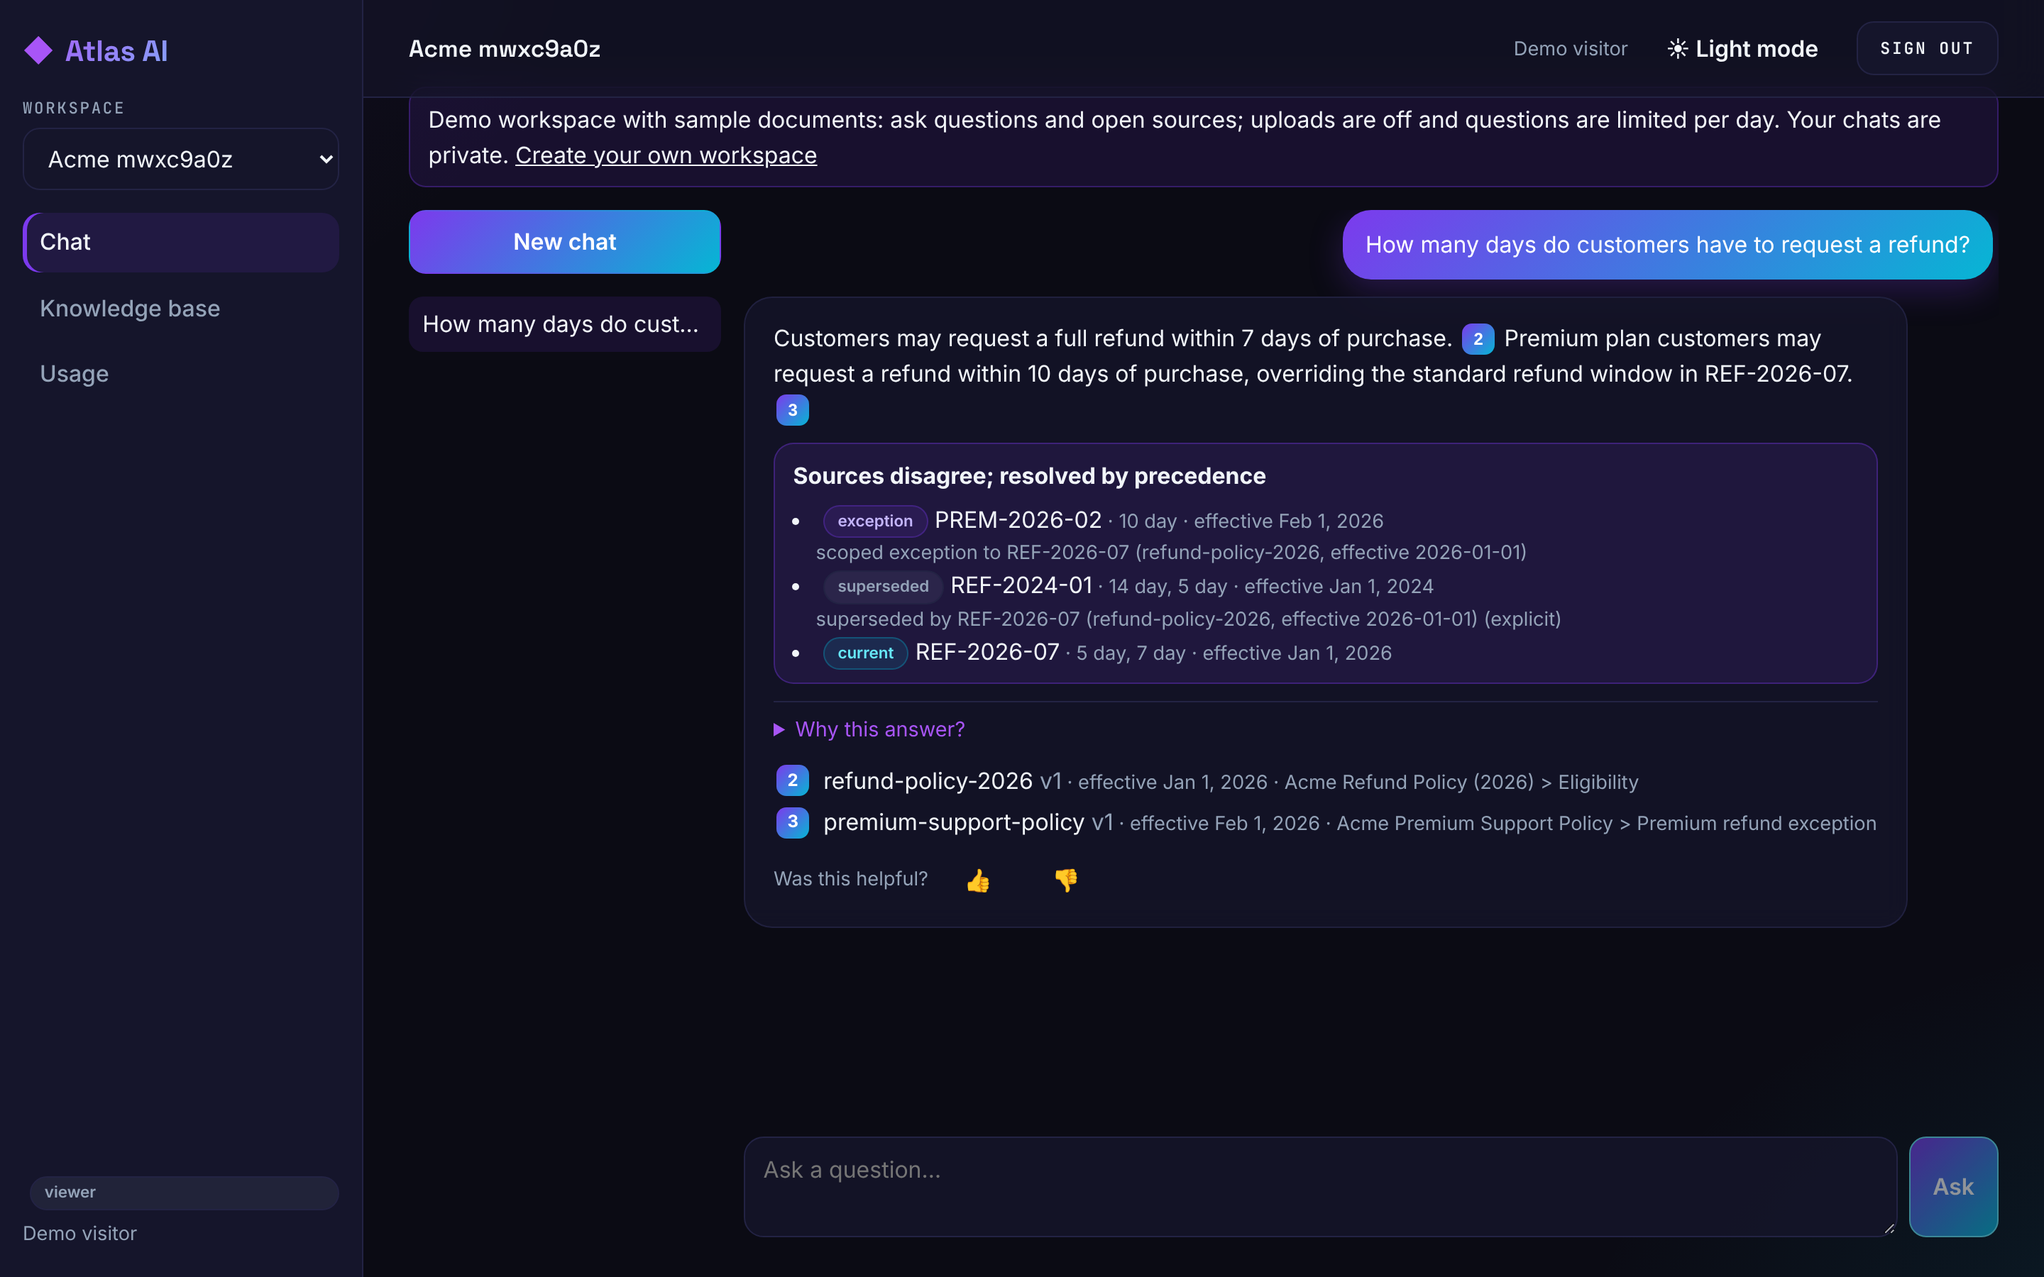
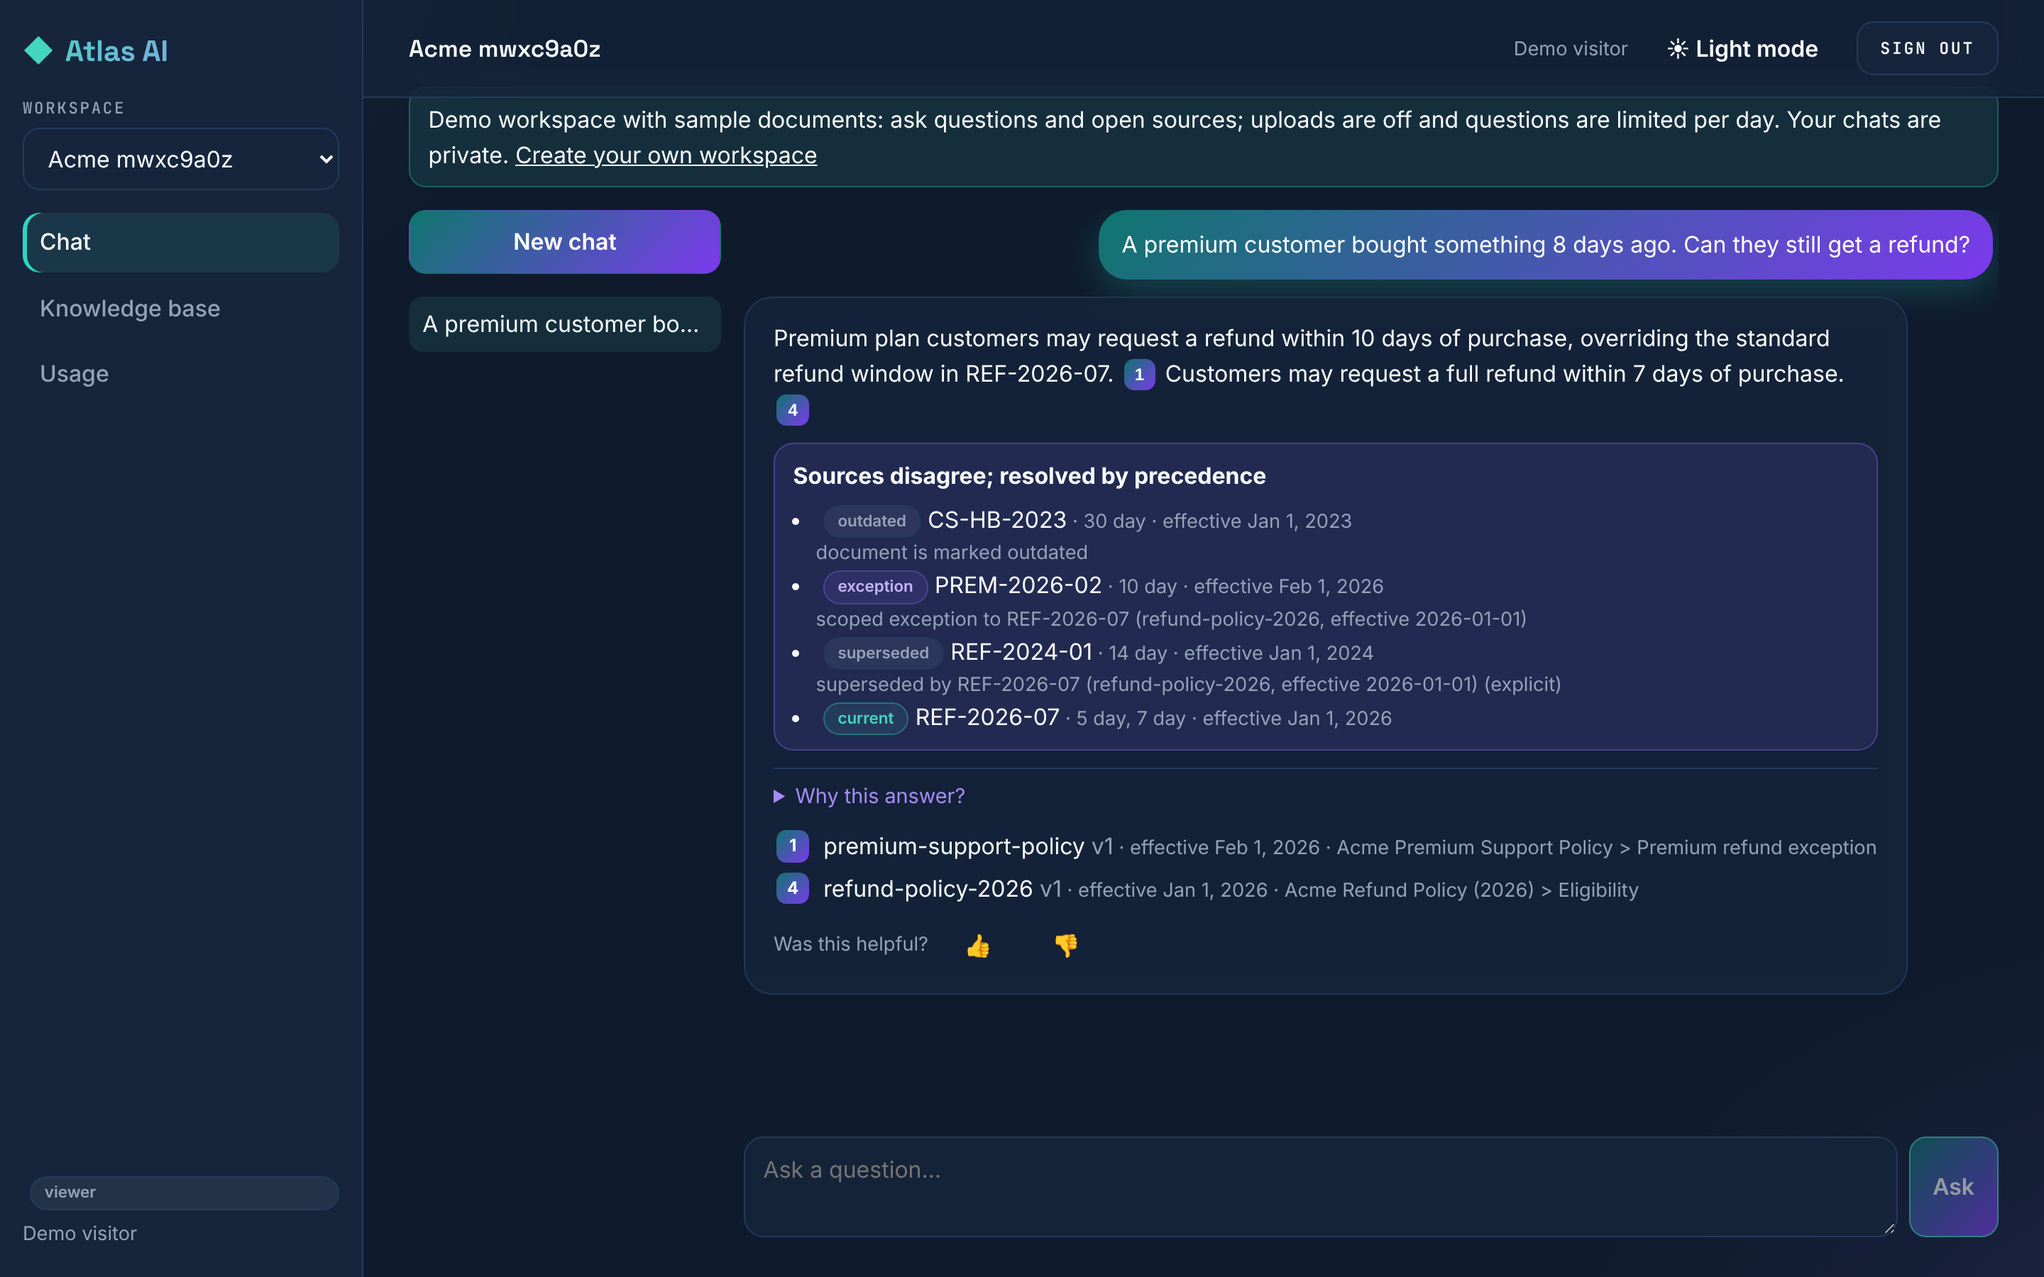
Atlas colours: blueprint navy, teal primary, violet for AI touches
Keeps the SkillSync-style layout, type and components but gives Atlas its own
palette from the blueprint: navy surfaces, teal as the primary 'verified'
colour, violet for citations and reasoning. Button gradient #0f766e to
#7c3aed keeps white text above 5.5:1; light theme uses #0f766e for teal text.
Tint tokens renamed to primary/secondary so each colour is used on purpose.

Claude-Session: https://claude.ai/code/session_01KApupF73xJdzrq2XS48m3G

diff --git a/frontend/src/styles.css b/frontend/src/styles.css
@@ -1,25 +1,27 @@
-/* Design system matching SkillSync: deep navy-violet surfaces, a violet to cyan
-   accent gradient, soft glows, Space Grotesk / Inter / JetBrains Mono.
-   The old token names are kept so every component picks up the new palette. */
+/* Atlas design system. Layout, type and components follow SkillSync's style;
+   colours are Atlas's own (blueprint): navy surfaces, teal as the primary
+   "verified" colour, violet for AI touches (citations, reasoning).
+   Old token names are kept so every component picks up the palette. */
 :root {
-  --navy: #0b0b14;          /* page background */
-  --navy-2: #15152b;        /* cards, sidebar */
-  --navy-3: #1d1d3d;        /* hover, raised surfaces */
-  --teal: #67e8f9;          /* cyan accent (links, "ready") */
-  --violet: #a855f7;        /* violet accent */
-  --accent: #7c3aed;        /* primary violet */
-  --accent-2: #06b6d4;      /* primary cyan */
+  --navy: #0f1b2d;          /* page background (blueprint navy) */
+  --navy-2: #16253c;        /* cards, sidebar */
+  --navy-3: #1e3150;        /* hover, raised surfaces */
+  --teal: #44d5c0;          /* teal text accents, links, "ready" (9.5:1 on navy) */
+  --violet: #a78bfa;        /* violet text accents (6.3:1 on navy) */
+  --accent: #2dd4bf;        /* primary (teal): focus, active nav, scrollbar */
+  --accent-2: #8b5cf6;      /* secondary (violet) */
   --slate: #94a3b8;
-  --white: #f1f5f9;
-  --red: #ef4444;
-  --line: #232344;
-  --violet-subtle: rgba(124, 58, 237, 0.12);
-  --cyan-subtle: rgba(6, 182, 212, 0.12);
-  --violet-glow: rgba(124, 58, 237, 0.25);
-  --cyan-glow: rgba(6, 182, 212, 0.25);
+  --white: #f8fafc;
+  --red: #f87171;
+  --line: #243a5c;
+  --primary-subtle: rgba(68, 213, 192, 0.1);
+  --secondary-subtle: rgba(139, 92, 246, 0.13);
+  --primary-glow: rgba(45, 212, 191, 0.22);
+  --secondary-glow: rgba(139, 92, 246, 0.25);
   --tag-text: #c4b5fd;
-  --gradient: linear-gradient(135deg, var(--accent), var(--accent-2));
-  --gradient-text: linear-gradient(135deg, #a855f7, #67e8f9);
+  /* White text stays at least 5.5:1 at both ends of the button gradient. */
+  --gradient: linear-gradient(135deg, #0f766e, #7c3aed);
+  --gradient-text: linear-gradient(135deg, #44d5c0, #a78bfa);
   --radius: 16px;
   --font-sans: "Inter", -apple-system, BlinkMacSystemFont, "Segoe UI", sans-serif;
   --font-display: "Space Grotesk", "Inter", -apple-system, sans-serif;
@@ -31,23 +33,23 @@
   color-scheme: dark;
 }
 :root[data-theme="light"] {
-  --navy: #f8f7ff;
+  --navy: #f8fafc;
   --navy-2: #ffffff;
-  --navy-3: #f3f0ff;
-  --teal: #0891b2;
-  --violet: #7c3aed;
-  --accent: #6d28d9;
-  --accent-2: #0891b2;
-  --slate: #4b5563;
-  --white: #1e1b4b;
+  --navy-3: #eef7f6;
+  --teal: #0f766e;          /* 5.5:1 on white */
+  --violet: #6d28d9;
+  --accent: #0d9488;
+  --accent-2: #7c3aed;
+  --slate: #475569;
+  --white: #0f1b2d;
   --red: #dc2626;
-  --line: #ddd6fe;
-  --violet-subtle: rgba(109, 40, 217, 0.08);
-  --cyan-subtle: rgba(8, 145, 178, 0.08);
-  --violet-glow: rgba(109, 40, 217, 0.15);
-  --cyan-glow: rgba(8, 145, 178, 0.15);
+  --line: #d5e2ec;
+  --primary-subtle: rgba(13, 148, 136, 0.08);
+  --secondary-subtle: rgba(124, 58, 237, 0.08);
+  --primary-glow: rgba(13, 148, 136, 0.16);
+  --secondary-glow: rgba(124, 58, 237, 0.15);
   --tag-text: #5b21b6;
-  --gradient-text: linear-gradient(135deg, #6d28d9, #0891b2);
+  --gradient-text: linear-gradient(135deg, #0f766e, #6d28d9);
   color-scheme: light;
 }
 * { box-sizing: border-box; }
@@ -219,13 +221,13 @@ input:focus, select:focus, textarea:focus, button:focus-visible {
 /* ---------------------------------------------------------------- SkillSync look */
 body {
   background:
-    radial-gradient(60rem 40rem at -10% -10%, var(--violet-subtle), transparent 60%),
-    radial-gradient(50rem 35rem at 110% 110%, var(--cyan-subtle), transparent 60%),
+    radial-gradient(60rem 40rem at -10% -10%, var(--primary-subtle), transparent 60%),
+    radial-gradient(50rem 35rem at 110% 110%, var(--secondary-subtle), transparent 60%),
     var(--navy);
   background-attachment: fixed;
   color: var(--white);
 }
-::selection { background: var(--accent); color: #fff; }
+::selection { background: var(--accent); color: #0f1b2d; }
 ::-webkit-scrollbar { width: 8px; height: 8px; }
 ::-webkit-scrollbar-track { background: var(--navy); }
 ::-webkit-scrollbar-thumb { background: var(--accent); border-radius: 4px; }
@@ -234,14 +236,14 @@ body {
 h1, h2, h3, h4, .card-title, .logo, .tile-value { font-family: var(--font-display); letter-spacing: -0.01em; }
 h1 { font-size: 1.85rem; font-weight: 600; }
 h2 { font-size: 1.25rem; font-weight: 600; }
-a { color: var(--violet); }
+a { color: var(--teal); }
 .gradient-text, .logo, .page-head h1 {
   background: var(--gradient-text);
   -webkit-background-clip: text;
   background-clip: text;
   color: transparent;
 }
-.logo-mark { color: var(--violet); -webkit-text-fill-color: var(--violet); }
+.logo-mark { color: var(--teal); -webkit-text-fill-color: var(--teal); }
 
 /* Small uppercase mono labels */
 .field-label, .table th, .tile-label, .why-section h4, .card-title + .muted.small {
@@ -264,7 +266,7 @@ input, select, textarea {
 input:focus, select:focus, textarea:focus {
   outline: none;
   border-color: var(--accent);
-  box-shadow: 0 0 0 3px var(--violet-subtle);
+  box-shadow: 0 0 0 3px var(--primary-subtle);
 }
 button:focus-visible, a:focus-visible { outline: 2px solid var(--violet); outline-offset: 2px; }
 select option { background: var(--navy-2); color: var(--white); }
@@ -291,11 +293,11 @@ select option { background: var(--navy-2); color: var(--white); }
 .btn-primary:hover:not(:disabled) {
   background: var(--gradient);
   border-color: transparent;
-  box-shadow: 0 8px 24px var(--violet-glow);
+  box-shadow: 0 8px 24px var(--primary-glow);
   transform: translateY(-2px);
 }
 .btn-ghost { background: transparent; border-color: transparent; }
-.btn-ghost:hover:not(:disabled) { background: var(--violet-subtle); border-color: transparent; }
+.btn-ghost:hover:not(:disabled) { background: var(--primary-subtle); border-color: transparent; }
 .btn-danger { color: var(--red); border-color: color-mix(in srgb, var(--red) 40%, transparent); background: transparent; }
 
 /* Cards and surfaces */
@@ -307,7 +309,7 @@ select option { background: var(--navy-2); color: var(--white); }
 }
 .card { padding: 1.4rem 1.5rem; }
 .tile { border-radius: 1rem; transition: box-shadow 0.2s, border-color 0.2s; }
-.tile:hover { box-shadow: 0 0 24px var(--violet-glow); border-color: color-mix(in srgb, var(--accent) 35%, var(--line)); }
+.tile:hover { box-shadow: 0 0 24px var(--primary-glow); border-color: color-mix(in srgb, var(--accent) 35%, var(--line)); }
 .table {
   background: color-mix(in srgb, var(--navy-2) 75%, transparent);
   border: 1px solid var(--line);
@@ -316,19 +318,19 @@ select option { background: var(--navy-2); color: var(--white); }
   border-spacing: 0;
 }
 .table tr:last-child td { border-bottom: none; }
-.clickable:hover { background: var(--violet-subtle); }
+.clickable:hover { background: var(--primary-subtle); }
 .empty { border: 1px dashed var(--line); border-radius: 1.5rem; background: color-mix(in srgb, var(--navy-2) 60%, transparent); }
 
 /* Badges: pills with a subtle tint */
 .badge { border-radius: 999px; padding: 0.12rem 0.6rem; font-weight: 600; font-size: 0.7rem; }
-.badge-violet { background: var(--violet-subtle); color: var(--tag-text); border-color: color-mix(in srgb, var(--accent) 30%, transparent); }
-.badge-teal { background: var(--cyan-subtle); color: var(--teal); border-color: color-mix(in srgb, var(--accent-2) 30%, transparent); }
+.badge-violet { background: var(--secondary-subtle); color: var(--tag-text); border-color: color-mix(in srgb, var(--accent-2) 35%, transparent); }
+.badge-teal { background: var(--primary-subtle); color: var(--teal); border-color: color-mix(in srgb, var(--accent) 35%, transparent); }
 .badge-slate { background: color-mix(in srgb, var(--slate) 10%, transparent); }
 .badge-red { background: color-mix(in srgb, var(--red) 10%, transparent); }
 
 /* Banners */
 .banner { border-radius: 12px; }
-.banner-info { background: var(--violet-subtle); border-color: color-mix(in srgb, var(--accent) 30%, transparent); }
+.banner-info { background: var(--primary-subtle); border-color: color-mix(in srgb, var(--accent) 30%, transparent); }
 
 /* App shell: card-coloured sidebar, gradient logo, pill nav */
 .shell { grid-template-columns: 256px 1fr; }
@@ -336,28 +338,28 @@ select option { background: var(--navy-2); color: var(--white); }
 .logo { font-size: 1.3rem; font-weight: 700; }
 .nav { gap: 0.25rem; }
 .nav a { color: var(--slate); padding: 0.55rem 0.75rem; border-radius: 12px; font-weight: 500; transition: background 0.15s, color 0.15s; }
-.nav a:hover { color: var(--white); background: var(--violet-subtle); text-decoration: none; }
-.nav a.active { background: var(--violet-subtle); color: var(--white); box-shadow: inset 3px 0 0 var(--accent); }
+.nav a:hover { color: var(--white); background: var(--primary-subtle); text-decoration: none; }
+.nav a.active { background: var(--primary-subtle); color: var(--white); box-shadow: inset 3px 0 0 var(--accent); }
 .main { padding: 1.75rem 2rem; }
 .page { gap: 1.25rem; }
 .theme-toggle { align-self: flex-start; }
 
 /* Chat */
 .conversations li a { color: var(--slate); border-radius: 10px; padding: 0.45rem 0.6rem; }
-.conversations li a:hover { background: var(--violet-subtle); color: var(--white); text-decoration: none; }
-.conversations li.active a { background: var(--violet-subtle); color: var(--white); }
+.conversations li a:hover { background: var(--primary-subtle); color: var(--white); text-decoration: none; }
+.conversations li.active a { background: var(--primary-subtle); color: var(--white); }
 .msg { border-radius: 1.25rem; }
-.msg-user { background: var(--gradient); color: #fff; box-shadow: 0 8px 24px var(--violet-glow); }
+.msg-user { background: var(--gradient); color: #fff; box-shadow: 0 8px 24px var(--primary-glow); }
 .msg-assistant { padding: 1rem 1.25rem; }
 .cite { background: var(--gradient); color: #fff; border-radius: 7px; }
 .source:hover { color: var(--violet); }
-.conflicts { border-radius: 14px; background: var(--violet-subtle); border-color: color-mix(in srgb, var(--accent) 35%, transparent); }
-.excerpt { border-left-color: var(--accent); background: var(--violet-subtle); }
+.conflicts { border-radius: 14px; background: var(--secondary-subtle); border-color: color-mix(in srgb, var(--accent-2) 40%, transparent); }
+.excerpt { border-left-color: var(--accent); background: var(--primary-subtle); }
 .composer textarea { border-radius: 14px; }
 .why summary { color: var(--violet); }
 .meter-fill { background: var(--gradient); }
-.chip-on { border-color: var(--accent); color: var(--violet); background: var(--violet-subtle); }
-.fb-on { border-color: var(--accent); background: var(--violet-subtle); }
+.chip-on { border-color: var(--accent); color: var(--violet); background: var(--primary-subtle); }
+.fb-on { border-color: var(--accent); background: var(--primary-subtle); }
 
 /* Auth and workspace picker: centred glass card on the ambient background */
 .auth-card {
@@ -375,7 +377,7 @@ select option { background: var(--navy-2); color: var(--white); }
   width: 14rem;
   height: 14rem;
   border-radius: 50%;
-  background: var(--cyan-subtle);
+  background: var(--secondary-subtle);
   filter: blur(40px);
   pointer-events: none;
 }
@@ -442,12 +444,12 @@ select option { background: var(--navy-2); color: var(--white); }
 .landing-hero { padding: 5.5rem 0 6rem; }
 .landing-scanlines {
   position: absolute; inset: 0; pointer-events: none; opacity: 0.6;
-  background-image: repeating-linear-gradient(color-mix(in srgb, var(--accent-2) 5%, transparent) 0, color-mix(in srgb, var(--accent-2) 5%, transparent) 1px, transparent 1px, transparent 3px);
+  background-image: repeating-linear-gradient(color-mix(in srgb, var(--accent) 4%, transparent) 0, color-mix(in srgb, var(--accent) 4%, transparent) 1px, transparent 1px, transparent 3px);
 }
 .landing-orb {
   position: absolute; top: 0; left: 50%; transform: translateX(-50%);
   width: 900px; height: 500px; border-radius: 50%;
-  background: color-mix(in srgb, var(--accent) 14%, transparent);
+  background: color-mix(in srgb, var(--accent) 12%, transparent);
   filter: blur(140px); pointer-events: none;
 }
 .landing-orb.small { top: 50%; transform: translate(-50%, -50%); width: 700px; height: 400px; }
@@ -455,12 +457,12 @@ select option { background: var(--navy-2); color: var(--white); }
 .eyebrow {
   display: inline-flex; align-items: center; gap: 0.5rem;
   font-family: var(--font-mono); font-size: 0.7rem; font-weight: 500; text-transform: uppercase; letter-spacing: 0.2em;
-  color: var(--teal); background: var(--cyan-subtle);
-  border: 1px solid color-mix(in srgb, var(--accent-2) 25%, transparent);
+  color: var(--teal); background: var(--primary-subtle);
+  border: 1px solid color-mix(in srgb, var(--accent) 30%, transparent);
   border-radius: 999px; padding: 0.35rem 0.85rem; margin-bottom: 1.5rem;
 }
 .eyebrow-dot { width: 6px; height: 6px; border-radius: 50%; background: var(--teal); animation: pulse-dot 2s ease-in-out infinite; }
-@keyframes pulse-dot { 0%, 100% { box-shadow: 0 0 6px var(--cyan-glow); opacity: 1; } 50% { opacity: 0.4; } }
+@keyframes pulse-dot { 0%, 100% { box-shadow: 0 0 6px var(--primary-glow); opacity: 1; } 50% { opacity: 0.4; } }
 .landing-title { font-family: var(--font-display); font-size: clamp(2.3rem, 5vw, 3.75rem); line-height: 1.08; font-weight: 600; letter-spacing: -0.02em; margin: 0 0 1.5rem; }
 .landing-title.small { font-size: clamp(2rem, 4vw, 3rem); margin-bottom: 1rem; }
 .landing-lead { font-size: 1.12rem; color: var(--slate); max-width: 36rem; line-height: 1.65; margin: 0 0 2rem; }
@@ -472,18 +474,18 @@ select option { background: var(--navy-2); color: var(--white); }
   padding: 1.5rem; border-radius: 2rem;
   background: color-mix(in srgb, var(--navy-2) 80%, transparent);
   border: 1px solid var(--line);
-  box-shadow: 0 30px 80px rgba(0, 0, 0, 0.35), 0 0 60px var(--violet-glow);
+  box-shadow: 0 30px 80px rgba(0, 0, 0, 0.35), 0 0 60px var(--primary-glow);
 }
 .preview-label { font-family: var(--font-mono); font-size: 0.68rem; text-transform: uppercase; letter-spacing: 0.15em; color: var(--slate); }
 .preview-question { align-self: flex-end; background: var(--gradient); color: #fff; padding: 0.7rem 1rem; border-radius: 1.1rem; max-width: 90%; }
 .preview-answer { line-height: 1.6; }
-.preview-conflict { padding: 0.75rem 0.9rem; border-radius: 14px; background: var(--violet-subtle); border: 1px solid color-mix(in srgb, var(--accent) 30%, transparent); font-size: 0.9rem; }
+.preview-conflict { padding: 0.75rem 0.9rem; border-radius: 14px; background: var(--secondary-subtle); border: 1px solid color-mix(in srgb, var(--accent-2) 40%, transparent); font-size: 0.9rem; }
 .preview-conflict ul { margin: 0.5rem 0 0; padding-left: 0; list-style: none; display: flex; flex-direction: column; gap: 0.35rem; }
 .preview-conflict .badge { margin: 0 0.4rem 0 0; }
 .preview-source { font-size: 0.85rem; color: var(--slate); display: flex; align-items: center; gap: 0.4rem; }
 
 .landing-section { padding: 5rem 0; }
-.section-kicker { font-family: var(--font-mono); font-size: 0.7rem; text-transform: uppercase; letter-spacing: 0.2em; color: var(--violet); }
+.section-kicker { font-family: var(--font-mono); font-size: 0.7rem; text-transform: uppercase; letter-spacing: 0.2em; color: var(--teal); }
 .section-title { font-family: var(--font-display); font-size: clamp(1.7rem, 3vw, 2.4rem); font-weight: 600; letter-spacing: -0.01em; margin: 0.6rem 0 2.25rem; }
 .landing-grid { display: grid; gap: 1.25rem; }
 .landing-grid.three { grid-template-columns: repeat(3, 1fr); }
@@ -494,11 +496,11 @@ select option { background: var(--navy-2); color: var(--white); }
   border: 1px solid var(--line);
   transition: transform 0.2s, box-shadow 0.2s, border-color 0.2s;
 }
-.feature-card:hover, .step-card:hover { transform: translateY(-3px); box-shadow: 0 0 30px var(--violet-glow); border-color: color-mix(in srgb, var(--accent) 35%, var(--line)); }
+.feature-card:hover, .step-card:hover { transform: translateY(-3px); box-shadow: 0 0 30px var(--primary-glow); border-color: color-mix(in srgb, var(--accent) 35%, var(--line)); }
 .feature-card h3, .step-card h3 { font-size: 1.1rem; margin: 0.75rem 0 0.4rem; }
 .feature-card p, .step-card p { margin: 0; line-height: 1.6; font-size: 0.95rem; }
 .feature-card.compact h3 { margin-top: 0; }
-.feature-icon { width: 2.75rem; height: 2.75rem; display: grid; place-items: center; font-size: 1.3rem; border-radius: 14px; background: var(--violet-subtle); border: 1px solid color-mix(in srgb, var(--accent) 25%, transparent); }
+.feature-icon { width: 2.75rem; height: 2.75rem; display: grid; place-items: center; font-size: 1.3rem; border-radius: 14px; background: var(--primary-subtle); border: 1px solid color-mix(in srgb, var(--accent) 25%, transparent); }
 .step-n { font-family: var(--font-mono); font-size: 0.8rem; color: var(--teal); letter-spacing: 0.1em; }
 
 .landing-results { display: grid; grid-template-columns: repeat(3, 1fr); gap: 1.25rem; margin-top: 2.5rem; }

diff --git a/frontend/index.html b/frontend/index.html
@@ -4,7 +4,7 @@
     <meta charset="UTF-8" />
     <meta name="viewport" content="width=device-width, initial-scale=1.0" />
     <meta name="color-scheme" content="dark light" />
-    <meta name="theme-color" content="#0b0b14" />
+    <meta name="theme-color" content="#0f1b2d" />
     <link rel="preconnect" href="https://fonts.googleapis.com" />
     <link rel="preconnect" href="https://fonts.gstatic.com" crossorigin />
     <link href="https://fonts.googleapis.com/css2?family=Space+Grotesk:wght@500;600;700&family=Inter:wght@400;500;600;700&family=JetBrains+Mono:wght@400;500;600&display=swap" rel="stylesheet" />
